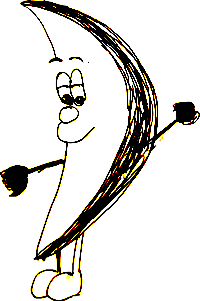
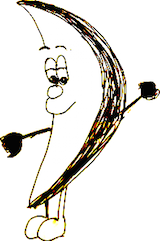
Enemies will be destroyed when they reach the bottom of the screen. Enemies art resized. All devices screen sizes supported.

diff --git a/trunk/Source/Game/Gameplay/Behaviour/DestroyBehaviourFunctions.cpp b/trunk/Source/Game/Gameplay/Behaviour/DestroyBehaviourFunctions.cpp
@@ -8,7 +8,11 @@
 
 #include "DestroyBehaviourFunctions.h"
 #include "DestroyBehaviour.h"
+#include "Gameplay/Map.h"
 #include "Gameplay/MapObject.h"
+#include "Gameplay/Component/ViewComponent.h"
+#include "Gameplay/Component/PositionComponent.h"
+#include "2d/CCSprite.h"
 
 namespace MelonGames
 {
@@ -23,11 +27,58 @@ namespace MelonGames
                     return false;
                 };
             }
-            DestroyCheckFunction makeIsOutOfScreenFunction()
+            DestroyCheckFunction makeIsOutOfScreenDownFunction()
             {
                 return [](MapObject* object) -> bool
                 {
-                    return false;
+                    bool inside = false;
+                    if (auto positionComponent = object->get<PositionComponent>())
+                    {
+                        cocos2d::Vec2 screenPos = Perspective::screenPosition(positionComponent->getPosition());
+                        inside = (screenPos.y >= 0.0f);
+                        if (!inside)
+                        {
+                            if (auto viewComponent = object->get<ViewComponent>())
+                            {
+                                if (auto sprite = viewComponent->getSprite())
+                                {
+                                    cocos2d::Size spriteSize = (sprite->getContentSize() * sprite->getScale());
+                                    screenPos.y += spriteSize.height*0.5f;
+                                    
+                                    inside = (screenPos.y >= 0.0f);
+                                }
+                            }
+                        }
+                    }
+                    return !inside;
+                };
+            }
+            
+            DestroyCheckFunction makeIsOutOfScreenUpFunction()
+            {
+                return [](MapObject* object) -> bool
+                {
+                    bool inside = false;
+                    if (auto positionComponent = object->get<PositionComponent>())
+                    {
+                        cocos2d::Size screenSize = object->getMap()->getDefinition().screenSize;
+                        cocos2d::Vec2 screenPos = Perspective::screenPosition(positionComponent->getPosition());
+                        inside = (screenPos.y <= screenSize.height);
+                        if (!inside)
+                        {
+                            if (auto viewComponent = object->get<ViewComponent>())
+                            {
+                                if (auto sprite = viewComponent->getSprite())
+                                {
+                                    cocos2d::Size spriteSize = (sprite->getContentSize() * sprite->getScale());
+                                    screenPos.y -= spriteSize.height*0.5f;
+                                    
+                                    inside = (screenPos.y <= screenSize.height);
+                                }
+                            }
+                        }
+                    }
+                    return !inside;
                 };
             }
             

diff --git a/trunk/Source/Game/Gameplay/ObjectsFastFactory.cpp b/trunk/Source/Game/Gameplay/ObjectsFastFactory.cpp
@@ -74,7 +74,7 @@ namespace MelonGames
                     behaviourComponent->addBehaviour(new MoveCircularBehaviour());
                     
                     DestroyBehaviour* destroyBehaviour = new DestroyBehaviour();
-                    destroyBehaviour->addCheckFunctionWithName(DestroyBehaviourFunctions::makeIsOutOfScreenFunction(), "OutOfScreen");
+                    destroyBehaviour->addCheckFunctionWithName(DestroyBehaviourFunctions::makeIsOutOfScreenDownFunction(), "OutOfScreen");
                     behaviourComponent->addBehaviour(destroyBehaviour);
                     
                     result->addComponent(behaviourComponent);
@@ -112,7 +112,7 @@ namespace MelonGames
                     behaviourComponent->addBehaviour(new MoveLinearBehaviour());
                     
                     DestroyBehaviour* destroyBehaviour = new DestroyBehaviour();
-                    destroyBehaviour->addCheckFunctionWithName(DestroyBehaviourFunctions::makeIsOutOfScreenFunction(), "OutOfScreen");
+                    destroyBehaviour->addCheckFunctionWithName(DestroyBehaviourFunctions::makeIsOutOfScreenUpFunction(), "OutOfScreen");
                     behaviourComponent->addBehaviour(destroyBehaviour);
                     
                     result->addComponent(behaviourComponent);

diff --git a/trunk/Source/Game/Gameplay/MapObject.cpp b/trunk/Source/Game/Gameplay/MapObject.cpp
@@ -16,6 +16,8 @@ namespace MelonGames
 		MapObject::MapObject()
 		: map(nullptr)
 		, valid(false)
+        , updating(false)
+        , callWillDetachAfterUpdate(false)
 		{
 		}
 		
@@ -86,12 +88,19 @@ namespace MelonGames
 		{
 			valid = false;
 			
-			for (auto& component : components)
-			{
-				component->onWillDetachFromObject();
-			}
-			
-			this->map = nullptr;
+            if (updating)
+            {
+                callWillDetachAfterUpdate = true;
+            }
+            else
+            {
+                for (auto& component : components)
+                {
+                    component->onWillDetachFromObject();
+                }
+                
+                this->map = nullptr;
+            }
 		}
 		
 		bool MapObject::isValid() const
@@ -107,11 +116,20 @@ namespace MelonGames
 		void MapObject::update(float dt)
 		{
 			assert(valid);
+            
+            updating = true;
 			
 			for (auto component : components)
 			{
 				component->update(dt);
 			}
+            
+            updating = false;
+            
+            if (callWillDetachAfterUpdate)
+            {
+                onWillDetachFromMap();
+            }
 		}
 	}
 }

diff --git a/trunk/Source/Game/Screens/GameScreen.cpp b/trunk/Source/Game/Screens/GameScreen.cpp
@@ -40,16 +40,22 @@ namespace MelonGames
 		
 		bool GameScreen::init()
 		{
-			if (cocos2d::Layer::create())
+			if (cocos2d::Layer::init())
 			{
+                const auto& winSize = cocos2d::Director::getInstance()->getWinSize();
+                
+                float forcedWidth = 768.0f;
+                float scale = winSize.width / forcedWidth;
+                float forcedHeight = winSize.height / scale;
+                
                 MapDefinition mapDefinition;
                 mapDefinition.height = 5000.0f;
-                mapDefinition.screenSize = cocos2d::Director::getInstance()->getWinSize();
+                mapDefinition.screenSize = cocos2d::Size(forcedWidth, forcedHeight);
+                mapDefinition.screenScale = scale;
 				map = new Map(mapDefinition);
 				
 				cocos2d::Node* mapNode = cocos2d::Node::create();
-				mapNode->setPosition(getContentSize()*0.5f);
-				mapNode->setContentSize(getContentSize());
+				mapNode->setContentSize(winSize);
 				addChild(mapNode);
 				
 				map->setNode(mapNode);

diff --git a/trunk/Source/Game/Gameplay/BehavioursFactory.cpp b/trunk/Source/Game/Gameplay/BehavioursFactory.cpp
@@ -26,9 +26,13 @@ namespace MelonGames
                 for (const auto& check : json["checks"])
                 {
                     std::string type = check["type"].asString();
-                    if (type == "OutOfScreen")
+                    if (type == "OutOfScreenDown")
                     {
-                        result->addCheckFunctionWithName(DestroyBehaviourFunctions::makeIsOutOfScreenFunction(), type);
+                        result->addCheckFunctionWithName(DestroyBehaviourFunctions::makeIsOutOfScreenDownFunction(), type);
+                    }
+                    else if (type == "OutOfScreenUp")
+                    {
+                        result->addCheckFunctionWithName(DestroyBehaviourFunctions::makeIsOutOfScreenUpFunction(), type);
                     }
                     else if (type == "Collision")
                     {

diff --git a/trunk/Source/Game/Gameplay/View/MapView.cpp b/trunk/Source/Game/Gameplay/View/MapView.cpp
@@ -8,6 +8,9 @@
 
 #include "MapView.h"
 #include "StarsView.h"
+
+#include "Gameplay/Map.h"
+
 #include "base/CCDirector.h"
 
 namespace MelonGames
@@ -19,7 +22,8 @@ namespace MelonGames
         , starsView(nullptr)
         {
             mainView = cocos2d::Node::create();
-            mainView->setContentSize(cocos2d::Director::getInstance()->getWinSize());
+            mainView->setContentSize(map->getDefinition().screenSize);
+            mainView->setScale(map->getDefinition().screenScale);
             
             mainNode->addChild(mainView);
             

diff --git a/trunk/Source/Game/Gameplay/Behaviour/DestroyBehaviourFunctions.h b/trunk/Source/Game/Gameplay/Behaviour/DestroyBehaviourFunctions.h
@@ -20,7 +20,8 @@ namespace MelonGames
         namespace DestroyBehaviourFunctions
         {
             DestroyCheckFunction makeIsDeadFunction();
-            DestroyCheckFunction makeIsOutOfScreenFunction();
+            DestroyCheckFunction makeIsOutOfScreenDownFunction();
+            DestroyCheckFunction makeIsOutOfScreenUpFunction();
             DestroyCheckFunction makeIsCollisionFunction();
         }
     }

diff --git a/trunk/Source/Game/AppDelegate.cpp b/trunk/Source/Game/AppDelegate.cpp
@@ -48,7 +48,8 @@ namespace MelonGames
 			
 			// create a scene. it's an autorelease object
 			auto scene = Scene::create();
-			scene->addChild(GameScreen::create());
+            auto gameScreen = GameScreen::create();
+			scene->addChild(gameScreen);
 			
 			// run
 			director->runWithScene(scene);

diff --git a/trunk/Source/Game/Gameplay/MapObject.h b/trunk/Source/Game/Gameplay/MapObject.h
@@ -51,6 +51,9 @@ namespace MelonGames
 			
 			std::vector<Component*> componentsToAdd;
 			std::vector<Component*> componentsToRemove;
+            
+            bool updating;
+            bool callWillDetachAfterUpdate;
 		};
 		
 		template <typename T>

diff --git a/trunk/Source/Game/Gameplay/Map.h b/trunk/Source/Game/Gameplay/Map.h
@@ -31,6 +31,7 @@ namespace MelonGames
         {
             float height;
             cocos2d::Size screenSize;
+            float screenScale;
         };
 		
 		class Map
